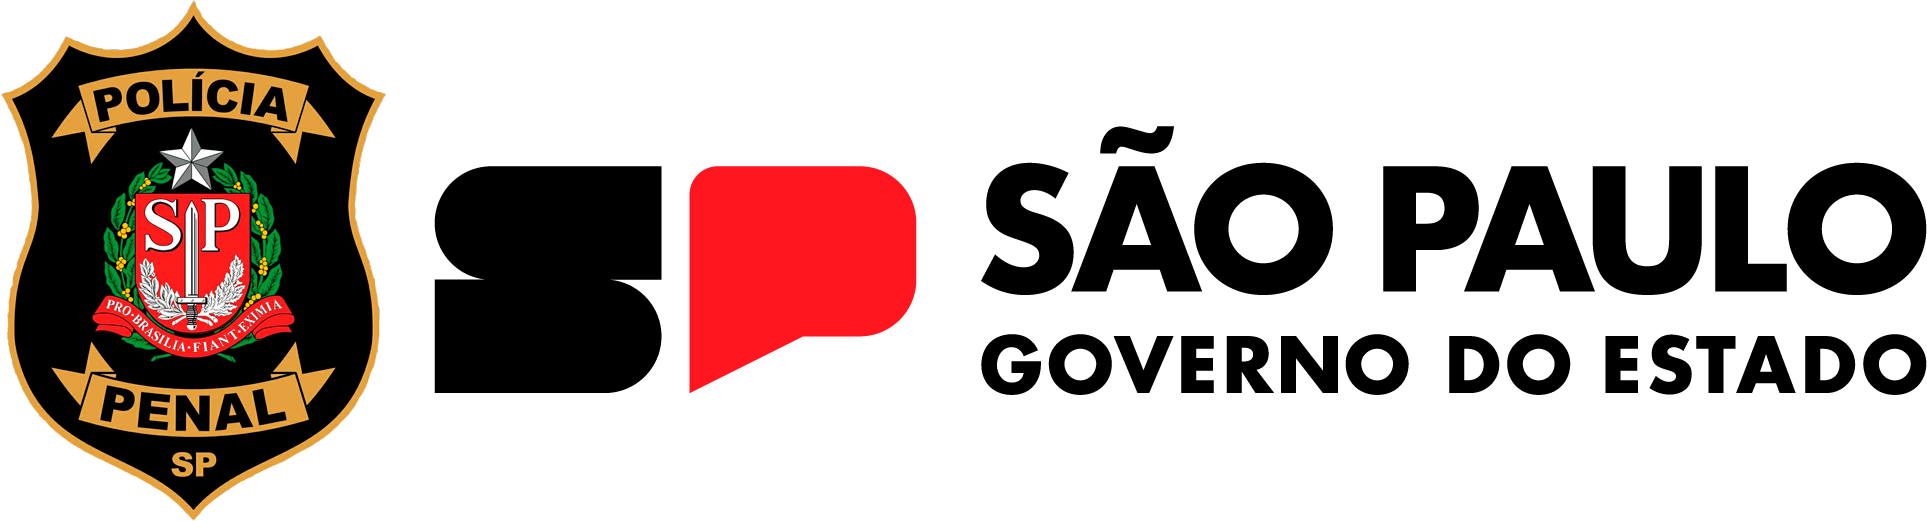
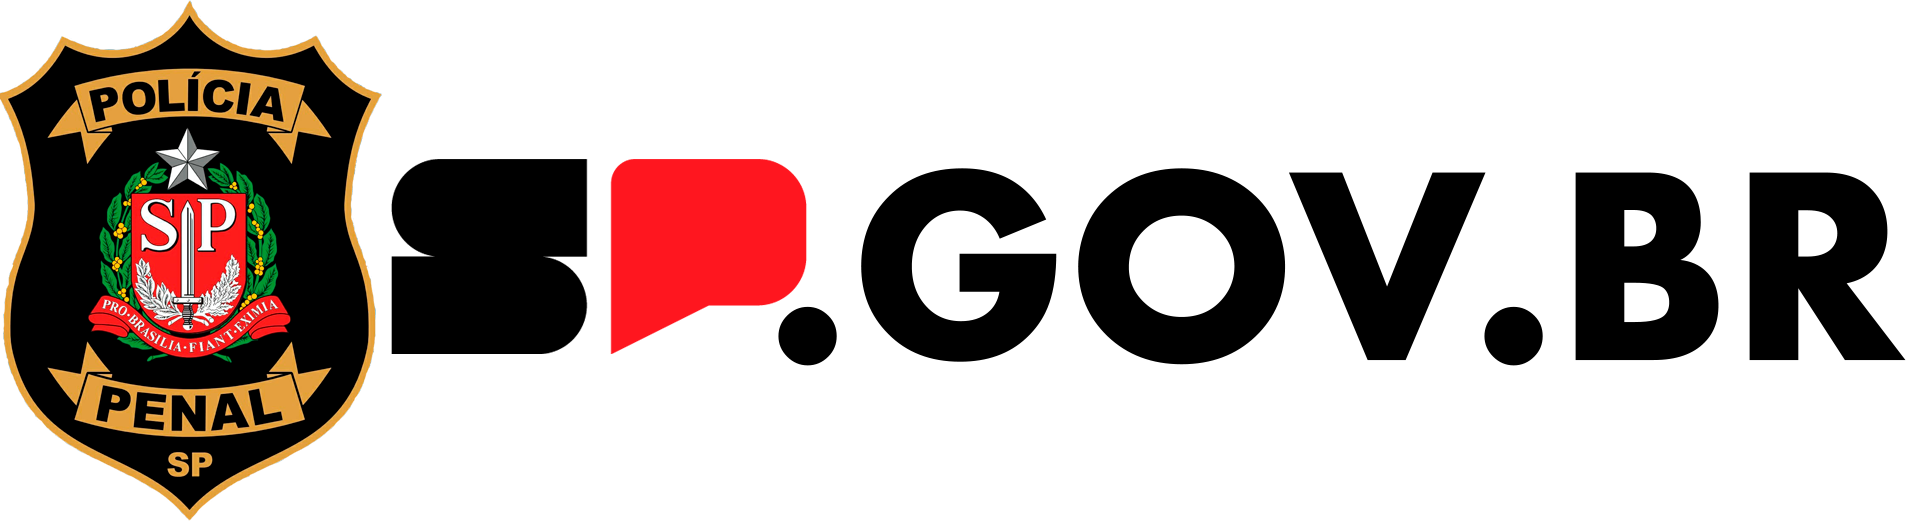
add gov.br / 02-06-25 as 22:32

Changed region(s): [[0.0, 0.0, 1.0, 1.0]]

diff --git a/src/static/style.css b/src/static/style.css
@@ -73,7 +73,7 @@ body {
 }
 
 .rounded {
-   width: 300px; 
+   width: 250px; 
    height: 65px; 
    position: absolute; 
    top: 0; 
